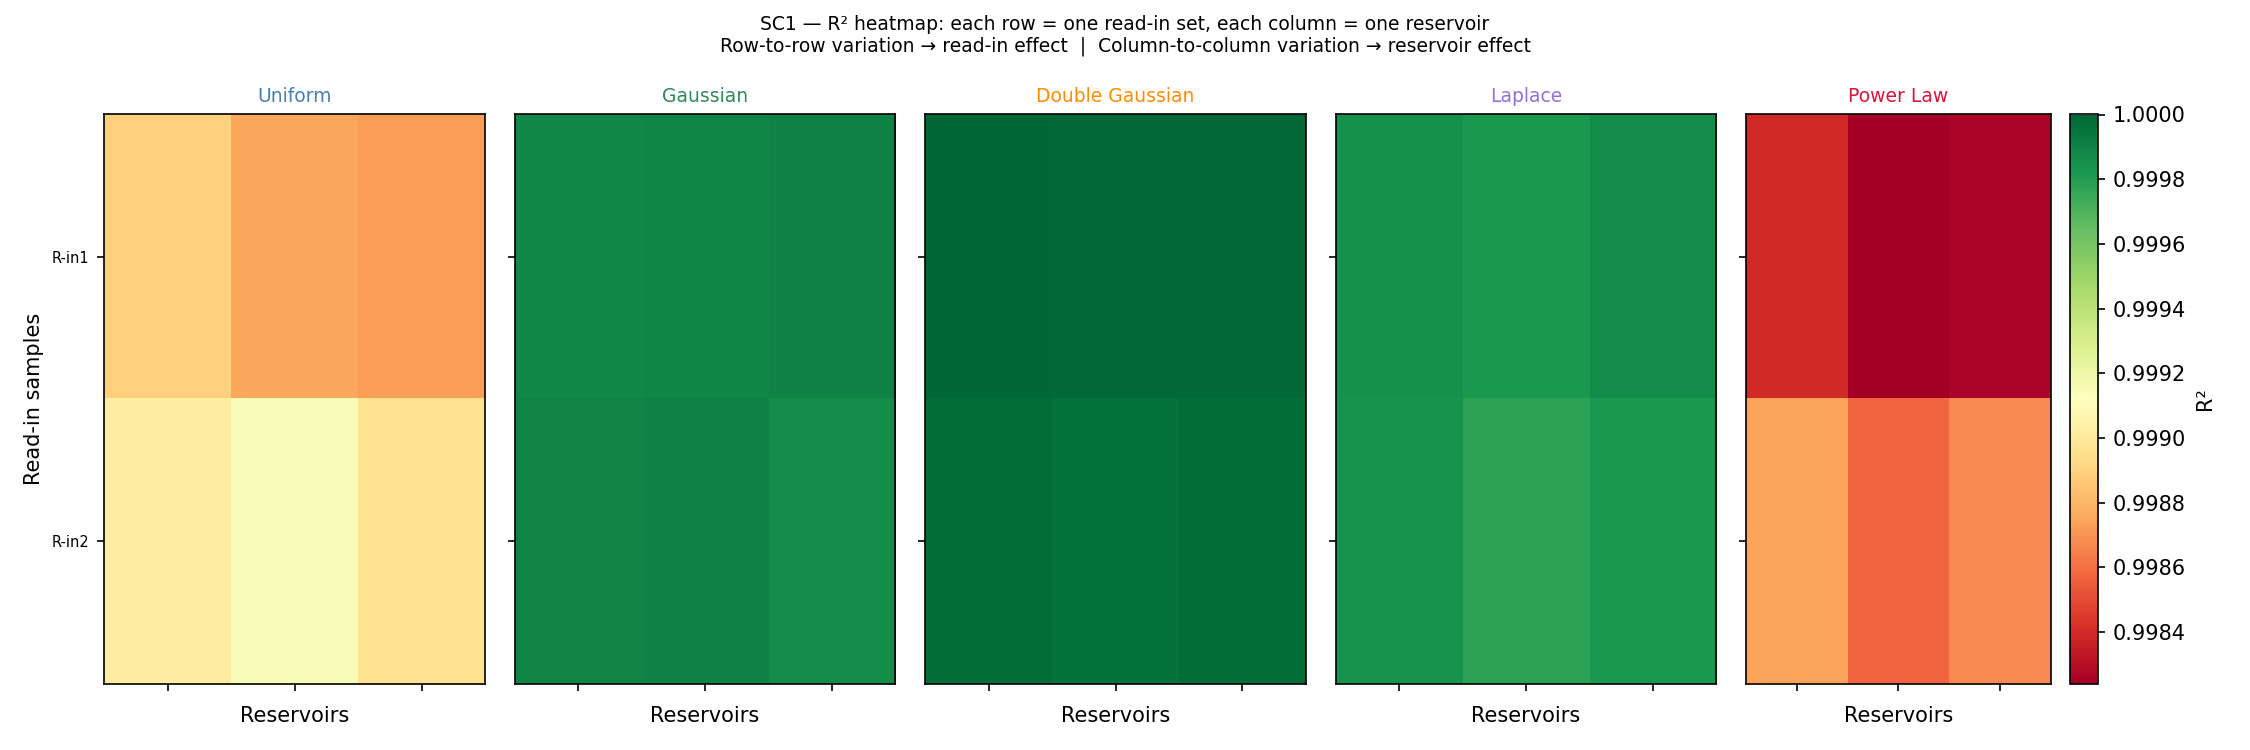
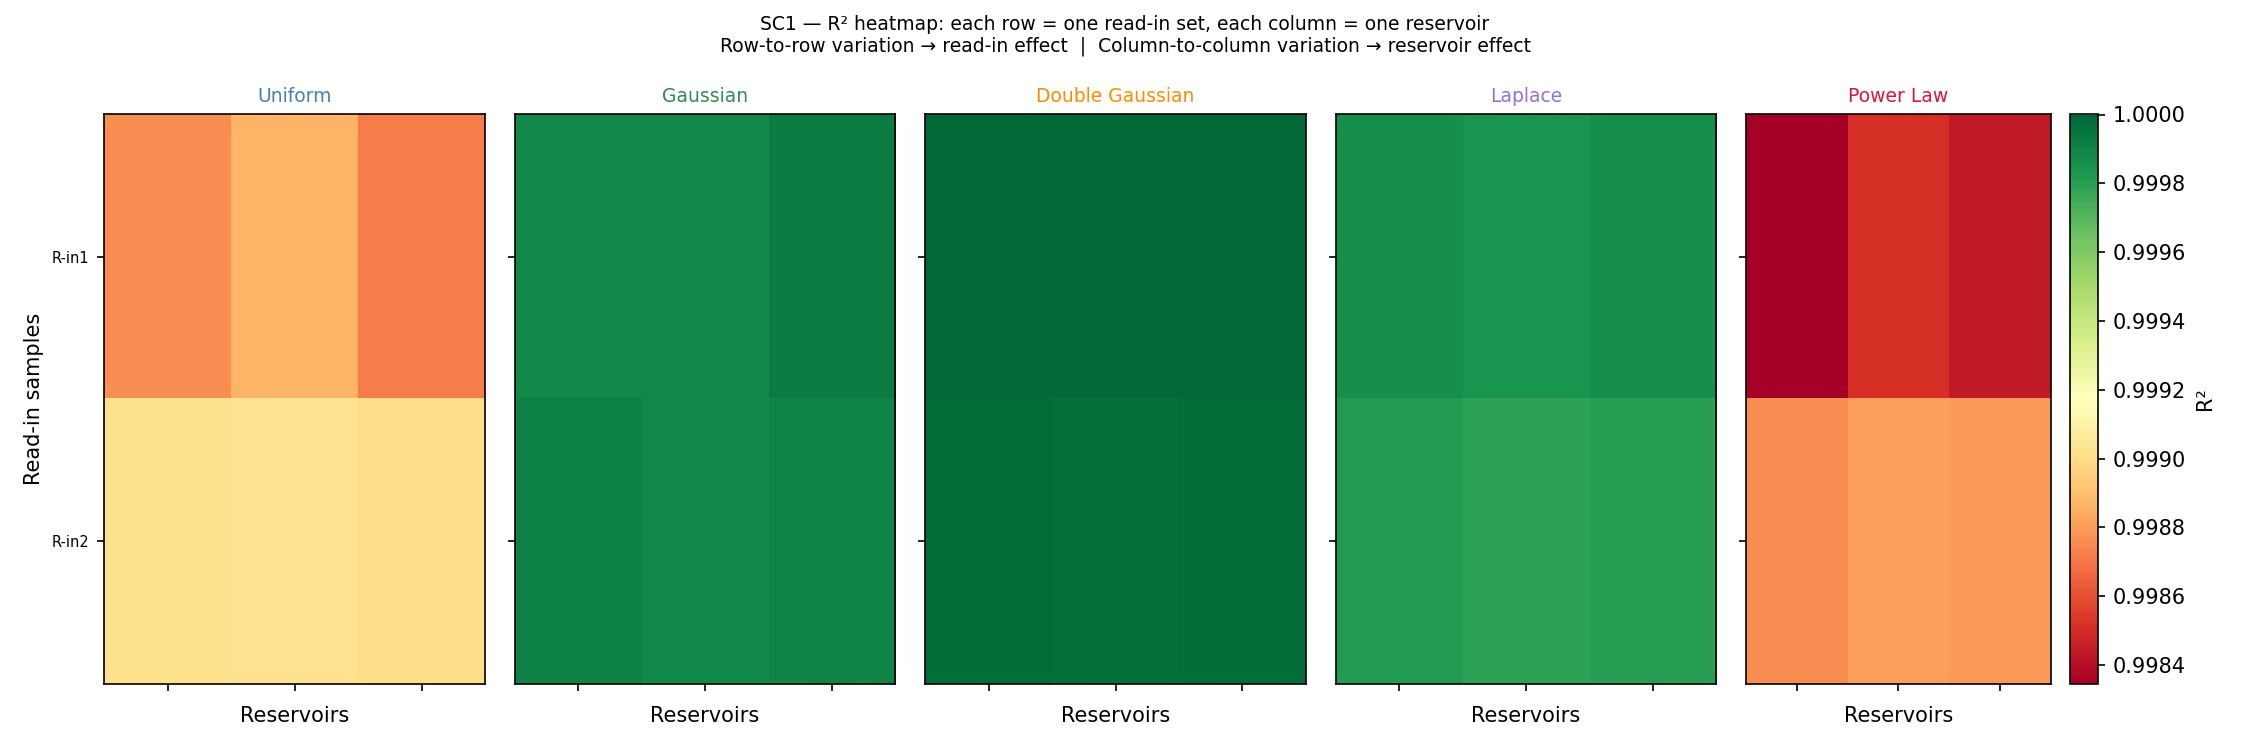
improvements to mackey-glass scripts

diff --git a/mackey-glass/SC3/mackey-glass_fixed-readin.py b/mackey-glass/SC3/mackey-glass_fixed-readin.py
@@ -43,11 +43,11 @@ parser.add_argument("--reservoir_nodes", type=int, default=200)
 parser.add_argument("--density", type=float, default=0.2)
 parser.add_argument("--spectral_radius", type=float, default=0.8)
 parser.add_argument("--leakage_rate", type=float, default=0.5)
-parser.add_argument("--fraction_input", type=float, default=0.5)
+parser.add_argument("--fraction_input", type=float, default=1.0)
 
 parser.add_argument("--ridge_alpha", type=float, default=0.1)
 
-parser.add_argument("--set_threshold", type=bool, default=True)
+parser.add_argument("--set_threshold", type=bool, default=False)
 parser.add_argument("--readin_threshold", type=float, default=1e-3)
 
 parser.add_argument("--parallel", action="store_true", default=True)

diff --git a/mackey-glass/SC3/mackey-glass_fixed-reservoir.py b/mackey-glass/SC3/mackey-glass_fixed-reservoir.py
@@ -41,11 +41,11 @@ parser.add_argument("--reservoir_nodes", type=int, default=200)
 parser.add_argument("--density", type=float, default=0.2)
 parser.add_argument("--spectral_radius", type=float, default=0.8)
 parser.add_argument("--leakage_rate", type=float, default=0.5)
-parser.add_argument("--fraction_input", type=float, default=0.5)
+parser.add_argument("--fraction_input", type=float, default=1.0)
 
 parser.add_argument("--ridge_alpha", type=float, default=0.1)
 
-parser.add_argument("--set_threshold", type=bool, default=True)
+parser.add_argument("--set_threshold", type=bool, default=False)
 parser.add_argument("--readin_threshold", type=float, default=1e-3)
 
 parser.add_argument("--task", type=str, default="mackey-glass")
